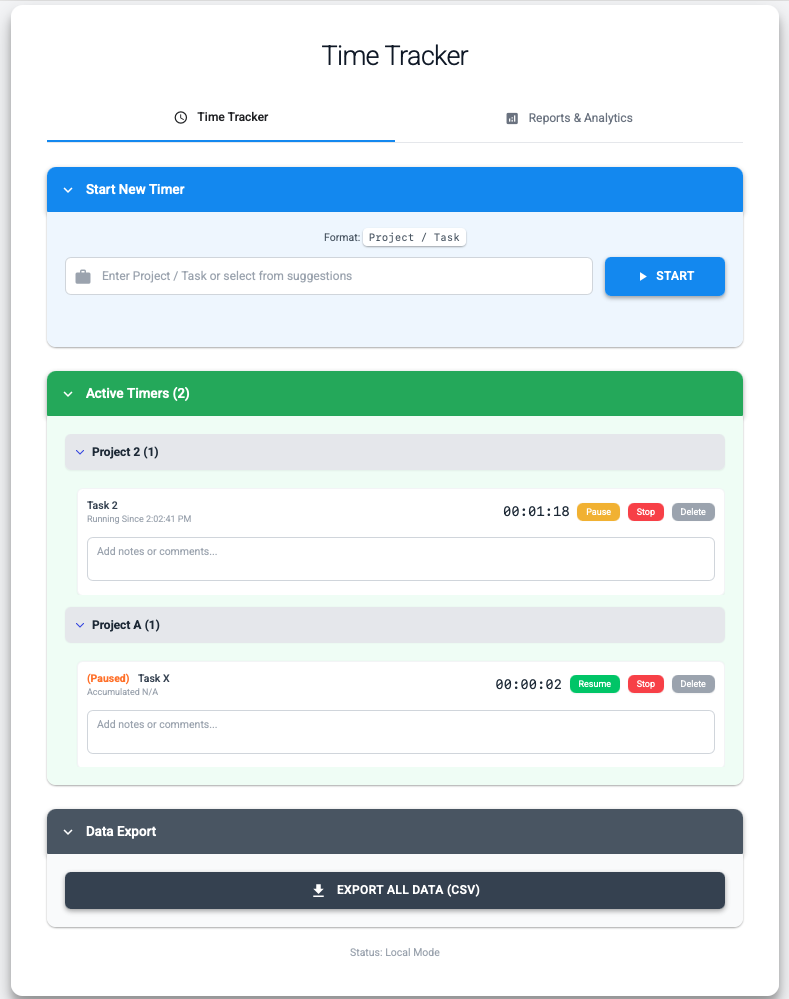
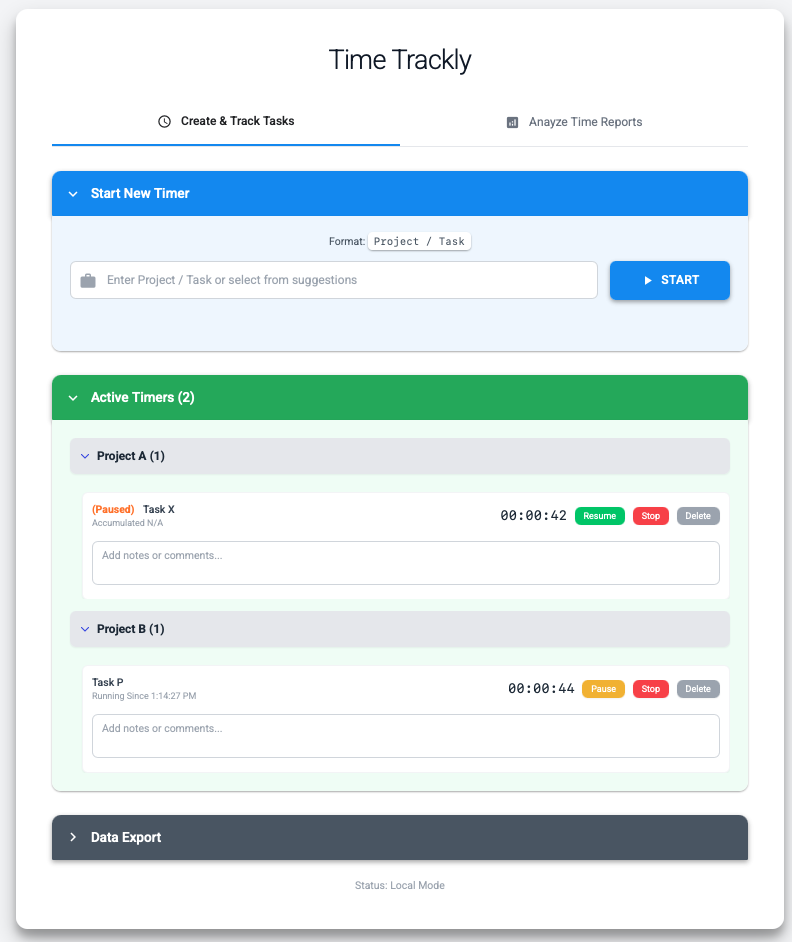
fix(ui): set createdAt to timer start time when stopping; update UI text & screenshots
- Compute startTime = endTime - finalDurationMs and use startTime.toISOString() for createdAt so historical entries reflect the actual start time (prevents stopped timers from being recorded with the stop timestamp).
- Update app heading to "Time Trackly" and adjust tab labels to "Create & Track Tasks" and "Anayze Time Reports".
- Refresh UI screenshots in assets (010-ui_initial_load.png, 030-ui_error_validation.png).

Changed region(s): [[0.0, 0.0308, 1.0, 1.0], [0.3954, 0.0308, 0.6084, 0.0924]]

diff --git a/index.html b/index.html
@@ -191,19 +191,19 @@
 <body class="bg-gray-100 min-h-screen p-4 sm:p-8">
 
 	<div id="app" class="max-w-5xl mx-auto bg-white elevation-4 rounded-2xl p-8 sm:p-12">
-		<h1 class="text-4xl font-light text-gray-900 mb-8 text-center tracking-tight">Time Tracker</h1>
+		<h1 class="text-4xl font-light text-gray-900 mb-8 text-center tracking-tight">Time Trackly</h1>
 
 		<!-- Tab Navigation -->
 		<div class="flex border-b-2 border-gray-200 mb-8">
 			<button id="tab-tracker" data-tab="tracker"
 				class="tab-button active flex-1 py-4 text-center text-gray-500 hover:text-gray-900 text-base">
 				<span class="material-icons align-middle mr-2 text-xl">schedule</span>
-				Time Tracker
+				Create & Track Tasks
 			</button>
 			<button id="tab-reports" data-tab="reports"
 				class="tab-button flex-1 py-4 text-center text-gray-500 hover:text-gray-900 text-base">
 				<span class="material-icons align-middle mr-2 text-xl">analytics</span>
-				Reports & Analytics
+				Anayze Time Reports
 			</button>
 		</div>
 

diff --git a/js/ui.js b/js/ui.js
@@ -464,6 +464,7 @@ export const stopTimer = async (id) => {
 	}
 
 	const endTime = new Date();
+	const startTime = new Date(endTime.getTime() - finalDurationMs);
 	delete state.activeTimers[id];
 
 	const newEntry = {
@@ -472,7 +473,7 @@ export const stopTimer = async (id) => {
 		totalDurationMs: finalDurationMs,
 		durationSeconds: Math.round(finalDurationMs / CONSTANTS.MS_PER_SECOND),
 		endTime: endTime.toISOString(),
-		createdAt: new Date().toISOString(),
+		createdAt: startTime.toISOString(),
 		notes: activity.notes || "",
 	};
 
